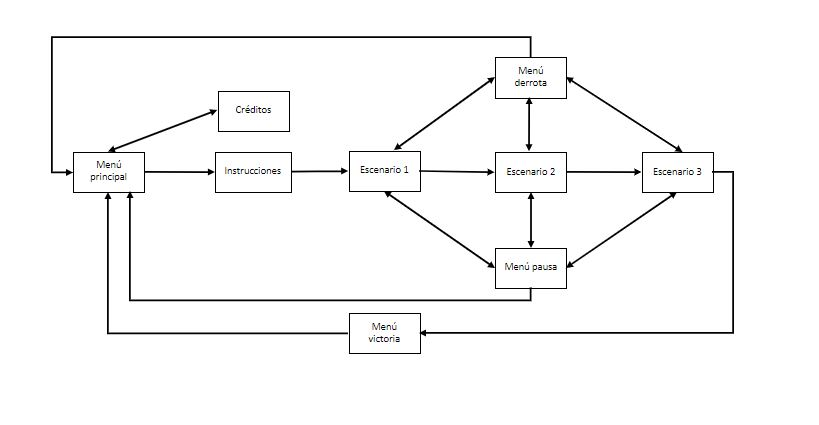
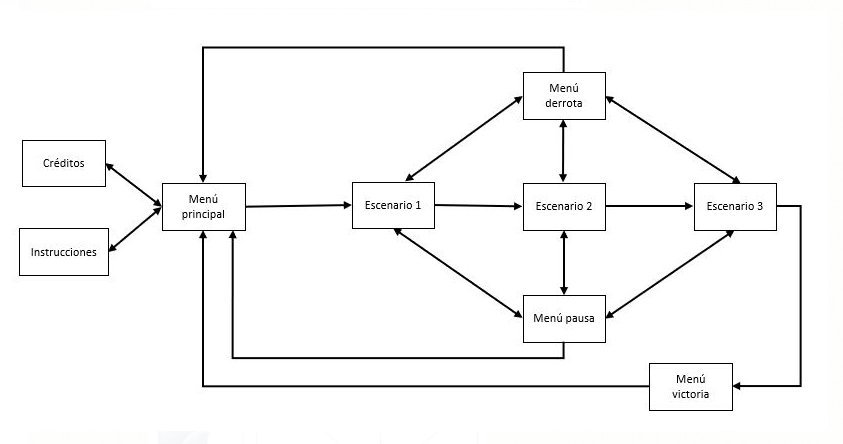
Modificación de las imagenes de las estructuras de escenas. Fotos actualizadas por Rocio....

diff --git a/memoria/capitulos/Tema_2.tex b/memoria/capitulos/Tema_2.tex
@@ -348,7 +348,7 @@ La transición entre escenas se muestra en el diagrama de la Figura \ref{fig:Tra
 
 \begin{figure}[H]
 	\centering
-	\includegraphics[scale=0.75]{imagenes/transicionEscenas3D.png}
+	\includegraphics[scale=0.60]{imagenes/transicionEscenas3D.png}
 	\caption{\label{fig:TrasicionEscenas3D}Diagrama de transición de las escenas}
 \end{figure}
 

diff --git a/memoria/capitulos/Tema_4.tex b/memoria/capitulos/Tema_4.tex
@@ -6,7 +6,7 @@ La estructura del videojuego es la siguiente:
 
 \begin{figure}[H]
 	\centering
-	\includegraphics[scale=0.60]{imagenes/estructuraEscena3D.png}
+	\includegraphics[scale=0.50]{imagenes/estructuraEscena3D.png}
 	\caption{\label{fig:EstructuraEscena3D}Estructura de las escenas del video juego}
 \end{figure}
 
